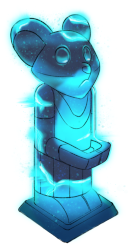
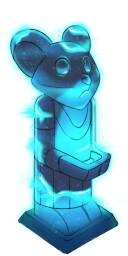
* Updated image sizes for proper fit * Fixed random

diff --git a/ui/Background.qml b/ui/Background.qml
@@ -80,7 +80,7 @@ Canvas
     }
 
     function rand_int(start,end) {
-        var range = end - start;
+        var range = (end + 1 ) - start;
         var value =  Math.floor(Math.random() * range);
 
         return start + value;
@@ -321,8 +321,8 @@ Canvas
 
                 var pos = S3d.vec4_mult([0.5,0,0.5,1],mv);
                 lights.push([pos,[1,1,1,1],40]);
-
-                draw_sprite(images[rand_int(17,18)],pos,0.5,0.5);
+                var ffsprite = (Math.random() > 0.5 ) ? 17 : 18;
+                draw_sprite(images[ffsprite],pos,0.5,0.5);
             }
 
             for (var c=0;c<characters.length;c++) {
@@ -336,7 +336,7 @@ Canvas
                 mv = S3d.mat4_mult(mv,mrot);
                 mv = S3d.mat4_mult(mv,mrot2);
 
-                var pos = S3d.vec4_mult([0.5,0.1,-2.5,1],mv);
+                var pos = S3d.vec4_mult([0.0,0.1,-2.5,1],mv);
 
                 draw_sprite(img,pos,1.5,3);
             }
